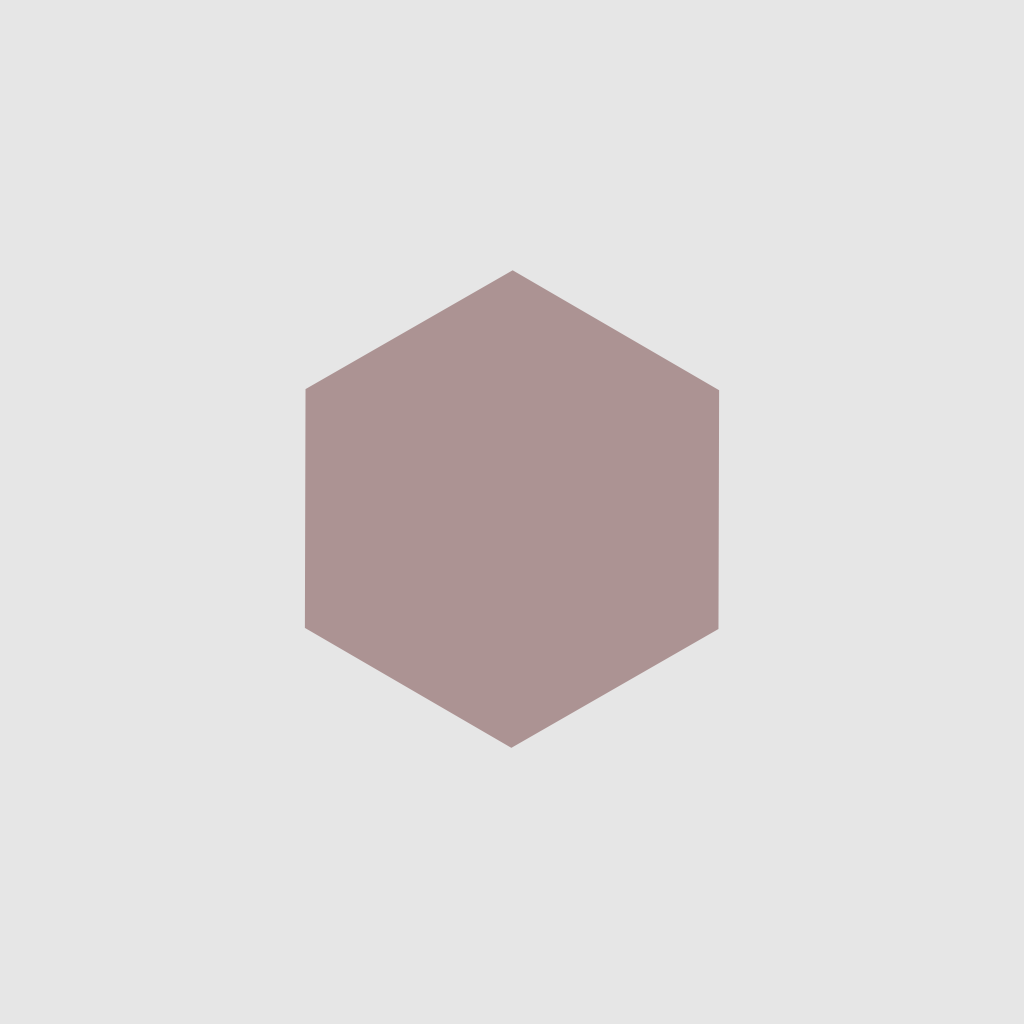
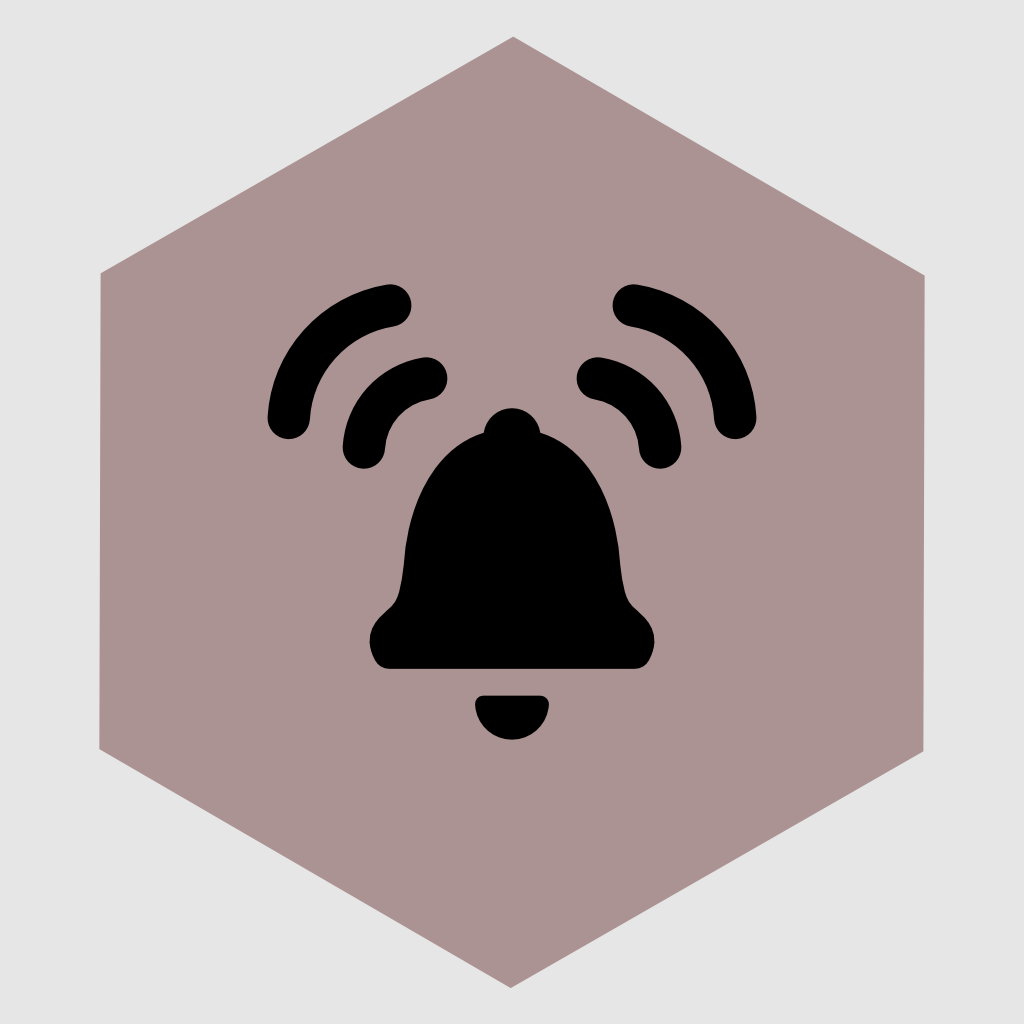
Tres. Splash animado + icono nuevo

diff --git a/src/app/auth/login/login.page.scss b/src/app/auth/login/login.page.scss
@@ -38,3 +38,132 @@ ion-spinner {
   bottom: 0;
   right: 0;
 }
+
+
+#custom-overlay {
+  position: fixed;
+  top: 0;
+  right: 0;
+  bottom: 0;
+  left: 0;
+  z-index: 100000;
+  width:100%;
+  background-color: #002a3e;
+}
+
+.flb {
+  background-color: #8d6e63;
+  height:100%;
+  width:100%;
+  animation: pulse 1s linear forwards;
+  display: flex;
+  align-items: center;
+  justify-content: center;
+}
+.Aligner-item {
+  max-width: 50%;
+}
+.Aligner-item--top {
+  align-self: flex-start;
+}
+.Aligner-item--bottom {
+  align-self: flex-end;
+}
+#custom-overlay img {
+  display: block;
+  margin: 0 auto;
+  width: 25%;
+  height: auto;
+  animation: animation 3100ms linear infinite both;
+  animation-delay: 1s;
+}
+
+@keyframes pulse {
+  0% {
+    opacity:0;
+  }
+  100% {
+    opacity:1;
+  }
+}
+
+
+
+.animation-target {
+  -webkit-animation: animation 865ms linear both;
+  animation: animation 865ms linear both;
+}
+
+/* Generated with Bounce.js. Edit at http://bouncejs.com#%7Bs%3A%5B%7BT%3A%22t%22%2Ce%3A%22b%22%2Cd%3A600%2CD%3A0%2Cf%3A%7Bx%3A-300%2Cy%3A0%7D%2Ct%3A%7Bx%3A0%2Cy%3A0%7D%2Cs%3A4%2Cb%3A4%7D%2C%7BT%3A%22c%22%2Ce%3A%22s%22%2Cd%3A800%2CD%3A65%2Cf%3A%7Bx%3A1%2Cy%3A1%7D%2Ct%3A%7Bx%3A0.1%2Cy%3A2.3%7D%2Cs%3A2%2Cb%3A4%7D%2C%7BT%3A%22c%22%2Ce%3A%22s%22%2Cd%3A300%2CD%3A30%2Cf%3A%7Bx%3A1%2Cy%3A1%7D%2Ct%3A%7Bx%3A5%2Cy%3A1%7D%2Cs%3A3%2Cb%3A4%7D%5D%7D */
+
+@-webkit-keyframes animation {
+  0% { -webkit-transform: matrix3d(1, 0, 0, 0, 0, 1, 0, 0, 0, 0, 1, 0, -300, 0, 0, 1); transform: matrix3d(1, 0, 0, 0, 0, 1, 0, 0, 0, 0, 1, 0, -300, 0, 0, 1); }
+  2.92% { -webkit-transform: matrix3d(1, 0, 0, 0, 0, 1, 0, 0, 0, 0, 1, 0, -135.218, 0, 0, 1); transform: matrix3d(1, 0, 0, 0, 0, 1, 0, 0, 0, 0, 1, 0, -135.218, 0, 0, 1); }
+  3.37% { -webkit-transform: matrix3d(1, 0, 0, 0, 0, 1, 0, 0, 0, 0, 1, 0, -114.871, 0, 0, 1); transform: matrix3d(1, 0, 0, 0, 0, 1, 0, 0, 0, 0, 1, 0, -114.871, 0, 0, 1); }
+  3.47% { -webkit-transform: matrix3d(1, 0, 0, 0, 0, 1, 0, 0, 0, 0, 1, 0, -110.596, 0, 0, 1); transform: matrix3d(1, 0, 0, 0, 0, 1, 0, 0, 0, 0, 1, 0, -110.596, 0, 0, 1); }
+  4.58% { -webkit-transform: matrix3d(2.061, 0, 0, 0, 0, 1, 0, 0, 0, 0, 1, 0, -68.65, 0, 0, 1); transform: matrix3d(2.061, 0, 0, 0, 0, 1, 0, 0, 0, 0, 1, 0, -68.65, 0, 0, 1); }
+  5.69% { -webkit-transform: matrix3d(2.321, 0, 0, 0, 0, 1, 0, 0, 0, 0, 1, 0, -36.551, 0, 0, 1); transform: matrix3d(2.321, 0, 0, 0, 0, 1, 0, 0, 0, 0, 1, 0, -36.551, 0, 0, 1); }
+  5.76% { -webkit-transform: matrix3d(2.32, 0, 0, 0, 0, 1, 0, 0, 0, 0, 1, 0, -34.768, 0, 0, 1); transform: matrix3d(2.32, 0, 0, 0, 0, 1, 0, 0, 0, 0, 1, 0, -34.768, 0, 0, 1); }
+  7.41% { -webkit-transform: matrix3d(1.99, 0, 0, 0, 0, 1, 0, 0, 0, 0, 1, 0, -3.804, 0, 0, 1); transform: matrix3d(1.99, 0, 0, 0, 0, 1, 0, 0, 0, 0, 1, 0, -3.804, 0, 0, 1); }
+  7.51% { -webkit-transform: matrix3d(1.961, 0, 0, 0, 0, 1, 0, 0, 0, 0, 1, 0, -2.454, 0, 0, 1); transform: matrix3d(1.961, 0, 0, 0, 0, 1, 0, 0, 0, 0, 1, 0, -2.454, 0, 0, 1); }
+  7.88% { -webkit-transform: matrix3d(1.771, 0, 0, 0, 0, 1.062, 0, 0, 0, 0, 1, 0, 2.008, 0, 0, 1); transform: matrix3d(1.771, 0, 0, 0, 0, 1.062, 0, 0, 0, 0, 1, 0, 2.008, 0, 0, 1); }
+  8.68% { -webkit-transform: matrix3d(1.408, 0, 0, 0, 0, 1.181, 0, 0, 0, 0, 1, 0, 9.646, 0, 0, 1); transform: matrix3d(1.408, 0, 0, 0, 0, 1.181, 0, 0, 0, 0, 1, 0, 9.646, 0, 0, 1); }
+  10.03% { -webkit-transform: matrix3d(0.982, 0, 0, 0, 0, 1.333, 0, 0, 0, 0, 1, 0, 16.853, 0, 0, 1); transform: matrix3d(0.982, 0, 0, 0, 0, 1.333, 0, 0, 0, 0, 1, 0, 16.853, 0, 0, 1); }
+  10.85% { -webkit-transform: matrix3d(0.822, 0, 0, 0, 0, 1.398, 0, 0, 0, 0, 1, 0, 18.613, 0, 0, 1); transform: matrix3d(0.822, 0, 0, 0, 0, 1.398, 0, 0, 0, 0, 1, 0, 18.613, 0, 0, 1); }
+  11.53% { -webkit-transform: matrix3d(0.732, 0, 0, 0, 0, 1.439, 0, 0, 0, 0, 1, 0, 18.992, 0, 0, 1); transform: matrix3d(0.732, 0, 0, 0, 0, 1.439, 0, 0, 0, 0, 1, 0, 18.992, 0, 0, 1); }
+  12.22% { -webkit-transform: matrix3d(0.672, 0, 0, 0, 0, 1.469, 0, 0, 0, 0, 1, 0, 18.618, 0, 0, 1); transform: matrix3d(0.672, 0, 0, 0, 0, 1.469, 0, 0, 0, 0, 1, 0, 18.618, 0, 0, 1); }
+  14.18% { -webkit-transform: matrix3d(0.612, 0, 0, 0, 0, 1.501, 0, 0, 0, 0, 1, 0, 15.054, 0, 0, 1); transform: matrix3d(0.612, 0, 0, 0, 0, 1.501, 0, 0, 0, 0, 1, 0, 15.054, 0, 0, 1); }
+  14.37% { -webkit-transform: matrix3d(0.612, 0, 0, 0, 0, 1.501, 0, 0, 0, 0, 1, 0, 14.604, 0, 0, 1); transform: matrix3d(0.612, 0, 0, 0, 0, 1.501, 0, 0, 0, 0, 1, 0, 14.604, 0, 0, 1); }
+  19.23% { -webkit-transform: matrix3d(0.737, 0, 0, 0, 0, 1.371, 0, 0, 0, 0, 1, 0, 3.855, 0, 0, 1); transform: matrix3d(0.737, 0, 0, 0, 0, 1.371, 0, 0, 0, 0, 1, 0, 3.855, 0, 0, 1); }
+  20.01% { -webkit-transform: matrix3d(0.763, 0, 0, 0, 0, 1.338, 0, 0, 0, 0, 1, 0, 2.724, 0, 0, 1); transform: matrix3d(0.763, 0, 0, 0, 0, 1.338, 0, 0, 0, 0, 1, 0, 2.724, 0, 0, 1); }
+  23.05% { -webkit-transform: matrix3d(0.856, 0, 0, 0, 0, 1.211, 0, 0, 0, 0, 1, 0, 0.036, 0, 0, 1); transform: matrix3d(0.856, 0, 0, 0, 0, 1.211, 0, 0, 0, 0, 1, 0, 0.036, 0, 0, 1); }
+  25.75% { -webkit-transform: matrix3d(0.923, 0, 0, 0, 0, 1.114, 0, 0, 0, 0, 1, 0, -0.709, 0, 0, 1); transform: matrix3d(0.923, 0, 0, 0, 0, 1.114, 0, 0, 0, 0, 1, 0, -0.709, 0, 0, 1); }
+  26.94% { -webkit-transform: matrix3d(0.947, 0, 0, 0, 0, 1.078, 0, 0, 0, 0, 1, 0, -0.76, 0, 0, 1); transform: matrix3d(0.947, 0, 0, 0, 0, 1.078, 0, 0, 0, 0, 1, 0, -0.76, 0, 0, 1); }
+  31.58% { -webkit-transform: matrix3d(1.009, 0, 0, 0, 0, 0.987, 0, 0, 0, 0, 1, 0, -0.406, 0, 0, 1); transform: matrix3d(1.009, 0, 0, 0, 0, 0.987, 0, 0, 0, 0, 1, 0, -0.406, 0, 0, 1); }
+  31.73% { -webkit-transform: matrix3d(1.01, 0, 0, 0, 0, 0.986, 0, 0, 0, 0, 1, 0, -0.392, 0, 0, 1); transform: matrix3d(1.01, 0, 0, 0, 0, 0.986, 0, 0, 0, 0, 1, 0, -0.392, 0, 0, 1); }
+  37.32% { -webkit-transform: matrix3d(1.029, 0, 0, 0, 0, 0.958, 0, 0, 0, 0, 1, 0, -0.03, 0, 0, 1); transform: matrix3d(1.029, 0, 0, 0, 0, 0.958, 0, 0, 0, 0, 1, 0, -0.03, 0, 0, 1); }
+  38.15% { -webkit-transform: matrix3d(1.029, 0, 0, 0, 0, 0.958, 0, 0, 0, 0, 1, 0, -0.008, 0, 0, 1); transform: matrix3d(1.029, 0, 0, 0, 0, 0.958, 0, 0, 0, 0, 1, 0, -0.008, 0, 0, 1); }
+  42.35% { -webkit-transform: matrix3d(1.022, 0, 0, 0, 0, 0.969, 0, 0, 0, 0, 1, 0, 0.03, 0, 0, 1); transform: matrix3d(1.022, 0, 0, 0, 0, 0.969, 0, 0, 0, 0, 1, 0, 0.03, 0, 0, 1); }
+  48.9% { -webkit-transform: matrix3d(1.007, 0, 0, 0, 0, 0.99, 0, 0, 0, 0, 1, 0, 0.009, 0, 0, 1); transform: matrix3d(1.007, 0, 0, 0, 0, 0.99, 0, 0, 0, 0, 1, 0, 0.009, 0, 0, 1); }
+  57.77% { -webkit-transform: matrix3d(0.998, 0, 0, 0, 0, 1.003, 0, 0, 0, 0, 1, 0, -0.001, 0, 0, 1); transform: matrix3d(0.998, 0, 0, 0, 0, 1.003, 0, 0, 0, 0, 1, 0, -0.001, 0, 0, 1); }
+  60.47% { -webkit-transform: matrix3d(0.998, 0, 0, 0, 0, 1.004, 0, 0, 0, 0, 1, 0, -0.001, 0, 0, 1); transform: matrix3d(0.998, 0, 0, 0, 0, 1.004, 0, 0, 0, 0, 1, 0, -0.001, 0, 0, 1); }
+  69.36% { -webkit-transform: matrix3d(0.999, 0, 0, 0, 0, 1.001, 0, 0, 0, 0, 1, 0, 0, 0, 0, 1); transform: matrix3d(0.999, 0, 0, 0, 0, 1.001, 0, 0, 0, 0, 1, 0, 0, 0, 0, 1); }
+  83.61% { -webkit-transform: matrix3d(1, 0, 0, 0, 0, 1, 0, 0, 0, 0, 1, 0, 0, 0, 0, 1); transform: matrix3d(1, 0, 0, 0, 0, 1, 0, 0, 0, 0, 1, 0, 0, 0, 0, 1); }
+  100% { -webkit-transform: matrix3d(1, 0, 0, 0, 0, 1, 0, 0, 0, 0, 1, 0, 0, 0, 0, 1); transform: matrix3d(1, 0, 0, 0, 0, 1, 0, 0, 0, 0, 1, 0, 0, 0, 0, 1); }
+}
+
+@keyframes animation {
+  0% { -webkit-transform: matrix3d(1, 0, 0, 0, 0, 1, 0, 0, 0, 0, 1, 0, -300, 0, 0, 1); transform: matrix3d(1, 0, 0, 0, 0, 1, 0, 0, 0, 0, 1, 0, -300, 0, 0, 1); }
+  2.92% { -webkit-transform: matrix3d(1, 0, 0, 0, 0, 1, 0, 0, 0, 0, 1, 0, -135.218, 0, 0, 1); transform: matrix3d(1, 0, 0, 0, 0, 1, 0, 0, 0, 0, 1, 0, -135.218, 0, 0, 1); }
+  3.37% { -webkit-transform: matrix3d(1, 0, 0, 0, 0, 1, 0, 0, 0, 0, 1, 0, -114.871, 0, 0, 1); transform: matrix3d(1, 0, 0, 0, 0, 1, 0, 0, 0, 0, 1, 0, -114.871, 0, 0, 1); }
+  3.47% { -webkit-transform: matrix3d(1, 0, 0, 0, 0, 1, 0, 0, 0, 0, 1, 0, -110.596, 0, 0, 1); transform: matrix3d(1, 0, 0, 0, 0, 1, 0, 0, 0, 0, 1, 0, -110.596, 0, 0, 1); }
+  4.58% { -webkit-transform: matrix3d(2.061, 0, 0, 0, 0, 1, 0, 0, 0, 0, 1, 0, -68.65, 0, 0, 1); transform: matrix3d(2.061, 0, 0, 0, 0, 1, 0, 0, 0, 0, 1, 0, -68.65, 0, 0, 1); }
+  5.69% { -webkit-transform: matrix3d(2.321, 0, 0, 0, 0, 1, 0, 0, 0, 0, 1, 0, -36.551, 0, 0, 1); transform: matrix3d(2.321, 0, 0, 0, 0, 1, 0, 0, 0, 0, 1, 0, -36.551, 0, 0, 1); }
+  5.76% { -webkit-transform: matrix3d(2.32, 0, 0, 0, 0, 1, 0, 0, 0, 0, 1, 0, -34.768, 0, 0, 1); transform: matrix3d(2.32, 0, 0, 0, 0, 1, 0, 0, 0, 0, 1, 0, -34.768, 0, 0, 1); }
+  7.41% { -webkit-transform: matrix3d(1.99, 0, 0, 0, 0, 1, 0, 0, 0, 0, 1, 0, -3.804, 0, 0, 1); transform: matrix3d(1.99, 0, 0, 0, 0, 1, 0, 0, 0, 0, 1, 0, -3.804, 0, 0, 1); }
+  7.51% { -webkit-transform: matrix3d(1.961, 0, 0, 0, 0, 1, 0, 0, 0, 0, 1, 0, -2.454, 0, 0, 1); transform: matrix3d(1.961, 0, 0, 0, 0, 1, 0, 0, 0, 0, 1, 0, -2.454, 0, 0, 1); }
+  7.88% { -webkit-transform: matrix3d(1.771, 0, 0, 0, 0, 1.062, 0, 0, 0, 0, 1, 0, 2.008, 0, 0, 1); transform: matrix3d(1.771, 0, 0, 0, 0, 1.062, 0, 0, 0, 0, 1, 0, 2.008, 0, 0, 1); }
+  8.68% { -webkit-transform: matrix3d(1.408, 0, 0, 0, 0, 1.181, 0, 0, 0, 0, 1, 0, 9.646, 0, 0, 1); transform: matrix3d(1.408, 0, 0, 0, 0, 1.181, 0, 0, 0, 0, 1, 0, 9.646, 0, 0, 1); }
+  10.03% { -webkit-transform: matrix3d(0.982, 0, 0, 0, 0, 1.333, 0, 0, 0, 0, 1, 0, 16.853, 0, 0, 1); transform: matrix3d(0.982, 0, 0, 0, 0, 1.333, 0, 0, 0, 0, 1, 0, 16.853, 0, 0, 1); }
+  10.85% { -webkit-transform: matrix3d(0.822, 0, 0, 0, 0, 1.398, 0, 0, 0, 0, 1, 0, 18.613, 0, 0, 1); transform: matrix3d(0.822, 0, 0, 0, 0, 1.398, 0, 0, 0, 0, 1, 0, 18.613, 0, 0, 1); }
+  11.53% { -webkit-transform: matrix3d(0.732, 0, 0, 0, 0, 1.439, 0, 0, 0, 0, 1, 0, 18.992, 0, 0, 1); transform: matrix3d(0.732, 0, 0, 0, 0, 1.439, 0, 0, 0, 0, 1, 0, 18.992, 0, 0, 1); }
+  12.22% { -webkit-transform: matrix3d(0.672, 0, 0, 0, 0, 1.469, 0, 0, 0, 0, 1, 0, 18.618, 0, 0, 1); transform: matrix3d(0.672, 0, 0, 0, 0, 1.469, 0, 0, 0, 0, 1, 0, 18.618, 0, 0, 1); }
+  14.18% { -webkit-transform: matrix3d(0.612, 0, 0, 0, 0, 1.501, 0, 0, 0, 0, 1, 0, 15.054, 0, 0, 1); transform: matrix3d(0.612, 0, 0, 0, 0, 1.501, 0, 0, 0, 0, 1, 0, 15.054, 0, 0, 1); }
+  14.37% { -webkit-transform: matrix3d(0.612, 0, 0, 0, 0, 1.501, 0, 0, 0, 0, 1, 0, 14.604, 0, 0, 1); transform: matrix3d(0.612, 0, 0, 0, 0, 1.501, 0, 0, 0, 0, 1, 0, 14.604, 0, 0, 1); }
+  19.23% { -webkit-transform: matrix3d(0.737, 0, 0, 0, 0, 1.371, 0, 0, 0, 0, 1, 0, 3.855, 0, 0, 1); transform: matrix3d(0.737, 0, 0, 0, 0, 1.371, 0, 0, 0, 0, 1, 0, 3.855, 0, 0, 1); }
+  20.01% { -webkit-transform: matrix3d(0.763, 0, 0, 0, 0, 1.338, 0, 0, 0, 0, 1, 0, 2.724, 0, 0, 1); transform: matrix3d(0.763, 0, 0, 0, 0, 1.338, 0, 0, 0, 0, 1, 0, 2.724, 0, 0, 1); }
+  23.05% { -webkit-transform: matrix3d(0.856, 0, 0, 0, 0, 1.211, 0, 0, 0, 0, 1, 0, 0.036, 0, 0, 1); transform: matrix3d(0.856, 0, 0, 0, 0, 1.211, 0, 0, 0, 0, 1, 0, 0.036, 0, 0, 1); }
+  25.75% { -webkit-transform: matrix3d(0.923, 0, 0, 0, 0, 1.114, 0, 0, 0, 0, 1, 0, -0.709, 0, 0, 1); transform: matrix3d(0.923, 0, 0, 0, 0, 1.114, 0, 0, 0, 0, 1, 0, -0.709, 0, 0, 1); }
+  26.94% { -webkit-transform: matrix3d(0.947, 0, 0, 0, 0, 1.078, 0, 0, 0, 0, 1, 0, -0.76, 0, 0, 1); transform: matrix3d(0.947, 0, 0, 0, 0, 1.078, 0, 0, 0, 0, 1, 0, -0.76, 0, 0, 1); }
+  31.58% { -webkit-transform: matrix3d(1.009, 0, 0, 0, 0, 0.987, 0, 0, 0, 0, 1, 0, -0.406, 0, 0, 1); transform: matrix3d(1.009, 0, 0, 0, 0, 0.987, 0, 0, 0, 0, 1, 0, -0.406, 0, 0, 1); }
+  31.73% { -webkit-transform: matrix3d(1.01, 0, 0, 0, 0, 0.986, 0, 0, 0, 0, 1, 0, -0.392, 0, 0, 1); transform: matrix3d(1.01, 0, 0, 0, 0, 0.986, 0, 0, 0, 0, 1, 0, -0.392, 0, 0, 1); }
+  37.32% { -webkit-transform: matrix3d(1.029, 0, 0, 0, 0, 0.958, 0, 0, 0, 0, 1, 0, -0.03, 0, 0, 1); transform: matrix3d(1.029, 0, 0, 0, 0, 0.958, 0, 0, 0, 0, 1, 0, -0.03, 0, 0, 1); }
+  38.15% { -webkit-transform: matrix3d(1.029, 0, 0, 0, 0, 0.958, 0, 0, 0, 0, 1, 0, -0.008, 0, 0, 1); transform: matrix3d(1.029, 0, 0, 0, 0, 0.958, 0, 0, 0, 0, 1, 0, -0.008, 0, 0, 1); }
+  42.35% { -webkit-transform: matrix3d(1.022, 0, 0, 0, 0, 0.969, 0, 0, 0, 0, 1, 0, 0.03, 0, 0, 1); transform: matrix3d(1.022, 0, 0, 0, 0, 0.969, 0, 0, 0, 0, 1, 0, 0.03, 0, 0, 1); }
+  48.9% { -webkit-transform: matrix3d(1.007, 0, 0, 0, 0, 0.99, 0, 0, 0, 0, 1, 0, 0.009, 0, 0, 1); transform: matrix3d(1.007, 0, 0, 0, 0, 0.99, 0, 0, 0, 0, 1, 0, 0.009, 0, 0, 1); }
+  57.77% { -webkit-transform: matrix3d(0.998, 0, 0, 0, 0, 1.003, 0, 0, 0, 0, 1, 0, -0.001, 0, 0, 1); transform: matrix3d(0.998, 0, 0, 0, 0, 1.003, 0, 0, 0, 0, 1, 0, -0.001, 0, 0, 1); }
+  60.47% { -webkit-transform: matrix3d(0.998, 0, 0, 0, 0, 1.004, 0, 0, 0, 0, 1, 0, -0.001, 0, 0, 1); transform: matrix3d(0.998, 0, 0, 0, 0, 1.004, 0, 0, 0, 0, 1, 0, -0.001, 0, 0, 1); }
+  69.36% { -webkit-transform: matrix3d(0.999, 0, 0, 0, 0, 1.001, 0, 0, 0, 0, 1, 0, 0, 0, 0, 1); transform: matrix3d(0.999, 0, 0, 0, 0, 1.001, 0, 0, 0, 0, 1, 0, 0, 0, 0, 1); }
+  83.61% { -webkit-transform: matrix3d(1, 0, 0, 0, 0, 1, 0, 0, 0, 0, 1, 0, 0, 0, 0, 1); transform: matrix3d(1, 0, 0, 0, 0, 1, 0, 0, 0, 0, 1, 0, 0, 0, 0, 1); }
+  100% { -webkit-transform: matrix3d(1, 0, 0, 0, 0, 1, 0, 0, 0, 0, 1, 0, 0, 0, 0, 1); transform: matrix3d(1, 0, 0, 0, 0, 1, 0, 0, 0, 0, 1, 0, 0, 0, 0, 1); }
+}

diff --git a/src/app/auth/login/login.page.ts b/src/app/auth/login/login.page.ts
@@ -15,16 +15,25 @@ export class LoginPage implements OnInit {
   email: string;
   password: string;
   loading: boolean;
+  splash: boolean;
+  // secondPage = SecondPagePage;
 
   constructor(
     private  router:  Router,
     public afAuth: AngularFireAuth
   ) {
     this.loading = false;
+    this.splash = true;
   }
 
   ngOnInit() {
     this.loading = false;
+    this.ionViewDidLoad();
+  }
+
+  ionViewDidLoad() {
+    console.log('ionViewDidLoad');
+    setTimeout(() => this.splash = false, 3000);
   }
 
   async login() {

diff --git a/src/app/auth/login/login.page.html b/src/app/auth/login/login.page.html
@@ -1,4 +1,14 @@
 <ion-content color="light" padding>
+
+
+  <div id="custom-overlay" [style.display]="splash ? 'flex': 'none'">
+    <div class="flb">
+      <div class="Aligner-item Aligner-item--top"></div>
+      <img class="animation-target" src="assets/icono.tres.svg">
+      <div class="Aligner-item Aligner-item--bottom"></div>
+    </div>
+  </div>
+
   <div class="" *ngIf="loading">
       <ion-spinner name="circles"></ion-spinner>
   </div>
